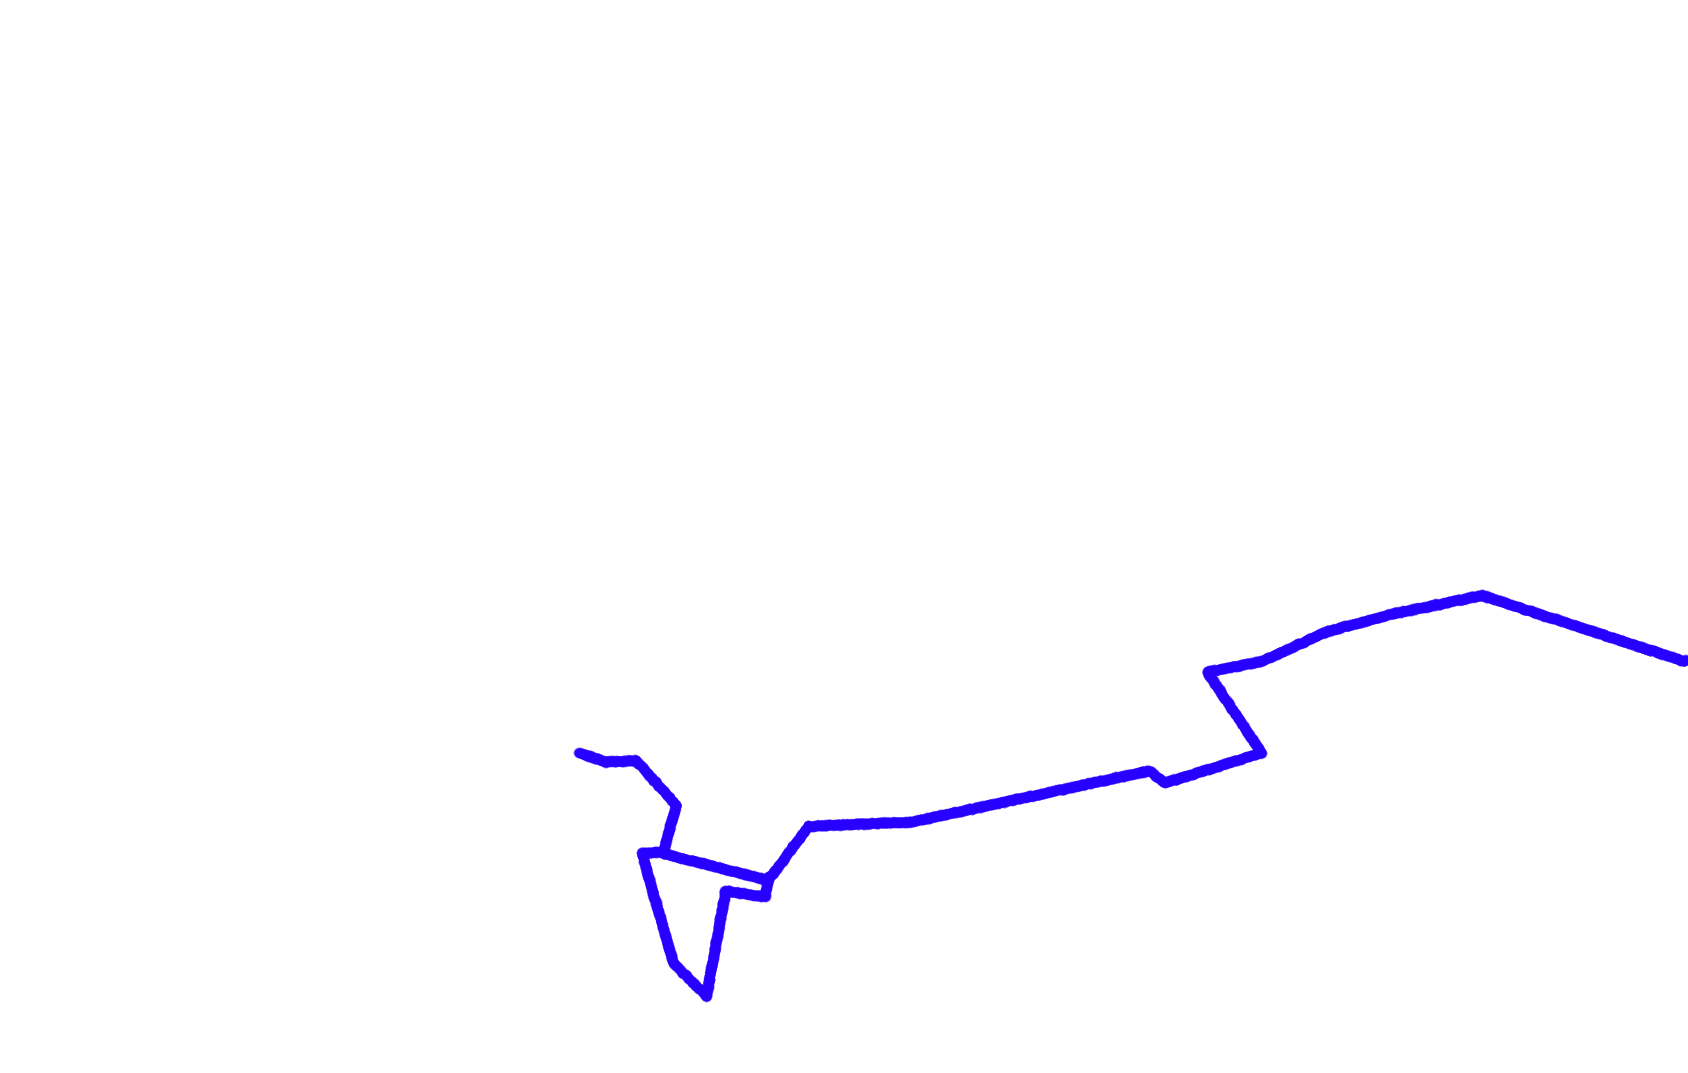
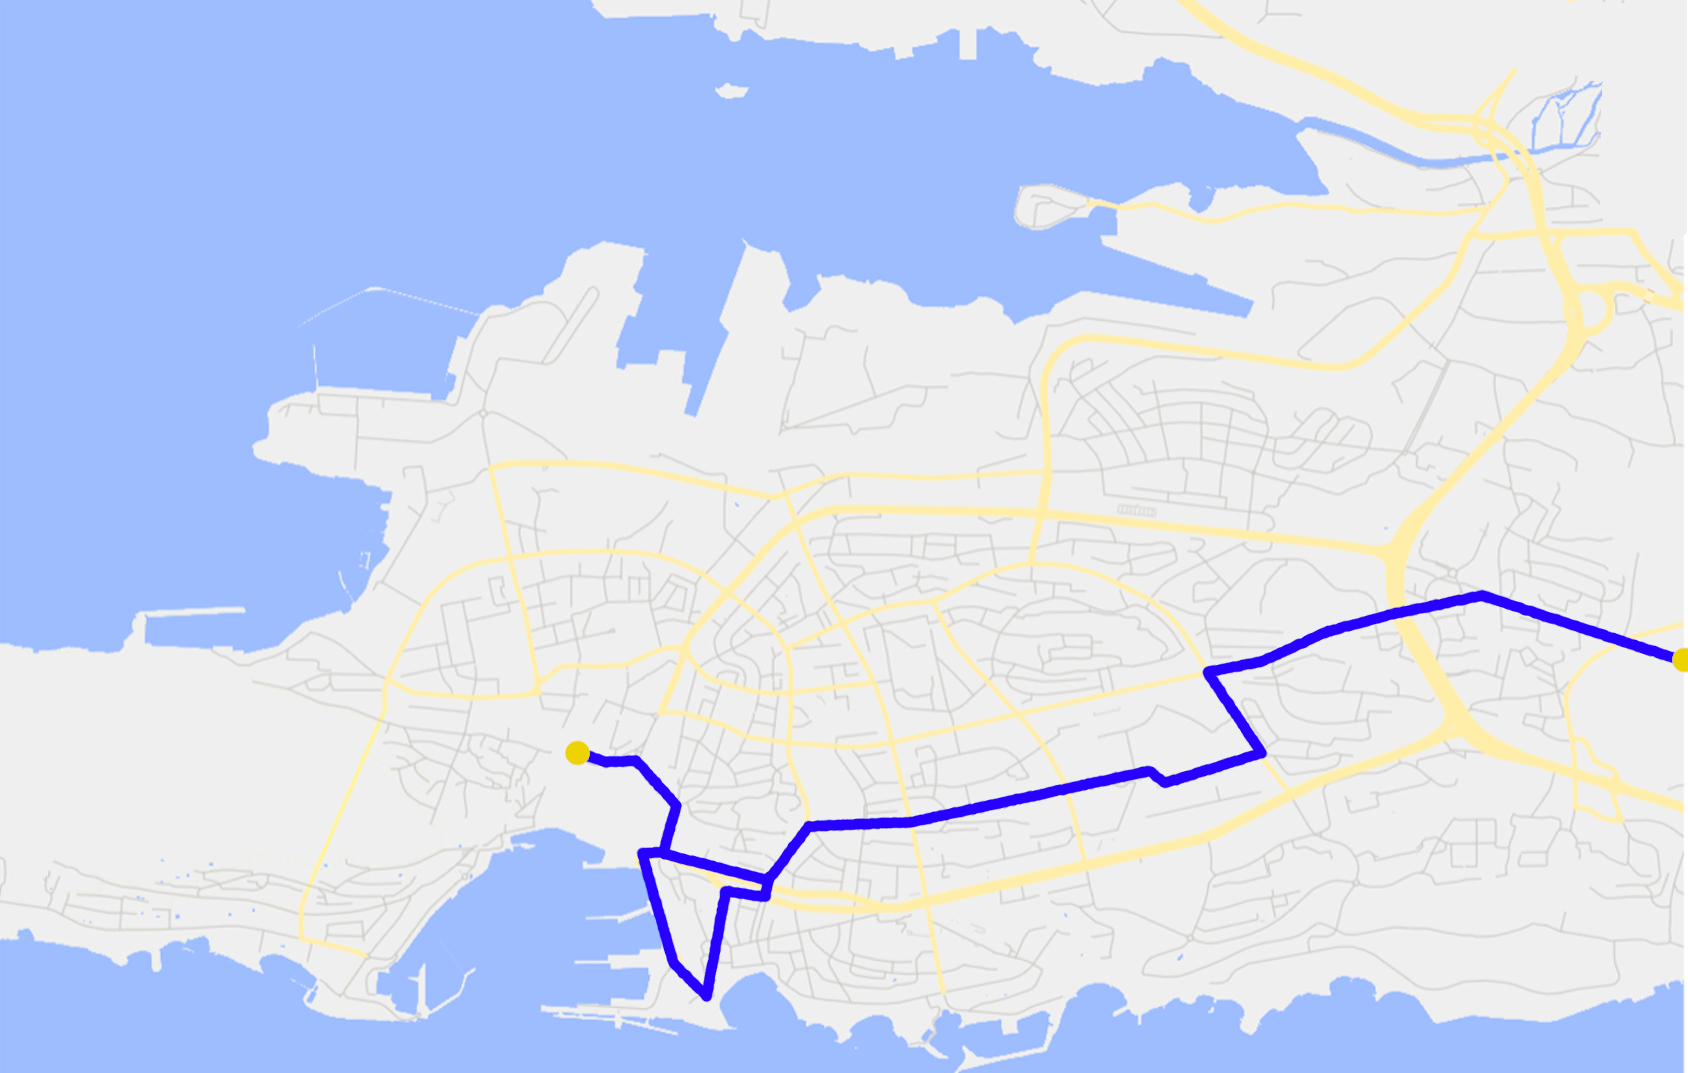
popravia align za kartu

diff --git a/odaberi-liniju.html b/odaberi-liniju.html
@@ -31,9 +31,7 @@
 
         <!-- Karta s rutama -->
         <div class="col s12 l7">
-            <div id="karta" class="z-depth-2">
-                <img id="ruta" src="Split_i_linije/prazno.png" width="100%">
-            </div>
+            <img id="ruta" src="Split_i_linije/splitback.png" width="100%">
         </div>
 
         <!-- Odabir linije i podatci o liniji -->

diff --git a/css/glavni-izgled.css b/css/glavni-izgled.css
@@ -40,7 +40,7 @@ td .sati
 
 #karta
 {
-    background-image: url("../Split_i_linije/splitback.png");
+    background-image: url("../Split_i_linije/prazno.png");
     background-size: cover;
     background-repeat: no-repeat;
     width: 100%;
